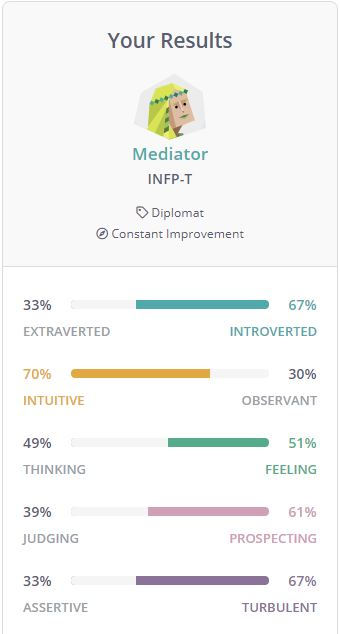
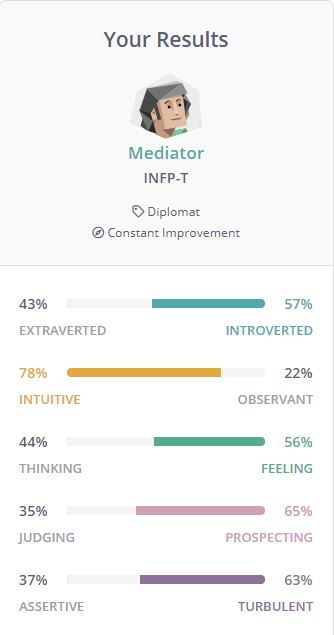
Added new files

diff --git a/index.html b/index.html
@@ -7,7 +7,7 @@
 </head>	
 	<header>
 	<h1>Brandon Ferguson
-		<br>Portfolio
+		<br>ePortfolio
 	  </h1>
 
 		
@@ -16,31 +16,34 @@
 <img1><img src="images/profile.jpg" width="131" height="130" alt=""/></img1>
 <h2>Personal Information</h2>
 <p1><li>Student Number: s3876709</li>
-	<li>Student E-mail: s3876709@student.rmit.edu.au
+	<li>Student E-mail: s3876709@student.rmit.edu.au</li>
 	<li>Mobile: +614 07 998 573</li>
-	<li>Website: <a href="https://flavaferg.github.io/" target="new">https://flavaferg.github.io/</a></li>
+	<li>Website: flavaferg.github.io</li>
 	<br><br>
-	I was born in Geelong and have been living here to this date. I am however an Australian with a quarter Irish and a quarter Scottish. I completed year 12 VCE in 2016 and have since done a Certificate III in Retail Services. I used to work at McDonalds from 2014-2019 as the role of a Crew Member where I did all round tasks from out front serving customers, out back in the kitchen and Maintenance duties. The only language I know how to speak fluently is English. I like to play the guitar and have been playing since Grade 4, in that amount of time you would think id be a pro at it but I am far from it. I also like to read books on my kindle, my favorite author is Dr. Hunter S. Thompson. I also like to play video games such as Rust, Garry’s mod & Old School Runescape on PC and Grand Theft Auto & Apex Legends on Xbox
+	I am an Australian citizen and have grown up in various parts of Geelong my entire life, I am a quarter Irish and a quarter Scottish although the other half of my nationality is unknown to me. My highest form of education is Year 12 VCE which I completed at North Geelong Secondary College.  I have worked at McDonalds for almost 5 years within 2014-2019 and have tried out various trades in between such as Roof plumbing and Roof Tiling. I also did a Furniture Removalist gig for a few weeks. The only language I can speak fluently is English, but I know a few cuss words in other languages. I like to read books, play video games and hang out with friends in my spare time, my favorite books are Fear & Loathing in Las Vegas and Fight Club and my favorite author is Hunter S. Thompson, my favorite video game is Rust which I currently have just over 2000 hours on. But I also like to play Grand Theft Auto V and Apex Legends when I am not playing Rust.
 	</p1>
 <h2>Interest in IT</h2>
-<p1>I have always had an interest in IT ever since I was a child, I started with playing Space Cadet 3D Pinball on Windows XP to playing Crash Bandicoot: The Wrath of Cortex on my brand new PS2 that I got for Christmas and my interest for IT and gaming in particular sprouted and grew from there as I moved to multiplayer games and creating my own private servers for games such as Travian, Habbo Hotel, and Rust which I would usually use someone else’s public script and upload it to a server or had a large amount of help from people I knew from the gaming community, and I would also do the same thing when creating forums for these private servers I would use the MyBB script and upload it to a website with FileZilla. It has always interested me how all these different types of Hardware put together can create something so powerful that is used so diversely. The programming side to things has kept me up at night sometimes thinking how on earth could the programs I am using be created with just 1’s and 0’s that form instructions. My uncle has IT as a major part of his life and is very knowledgeable in the IT industry which gaining knowledge from him and knowing about what he does has helped me gathering an understanding of IT and knowing if I ever need to know something he is probably the first person to go to if I cant find my answer online.
+<p1>My interest in IT has sparked with my interest and entertainment I received from video games starting with Space Cadet Pinball on my parents PC slowly moving into Crash Bandicoot and then more advanced games as time passed, until today I have never stopped playing. Throughout my childhood I’ve worked with friends I met online and used open source scripts to create my own private servers for some of my favorite games such as Habbo Hotel, Garry’s Mod, Rust and Travian with accompanying forum websites by uploading the MyBB forum script using FileZilla where users for the servers could post various things based on the server whether it be complaints, ideas, ban appeals & requests or just general chat. I also made a Radio based Fan website for Habbo Hotel, where people with authorization could stream music over the radio which were referred to as DJ’s. After growing up a bit I realized I could use the fuel given to me from my interest in IT to do something a bit more and a bit larger than just using others scripts to make private gaming servers, it astounded me how these physical technological things known as computers can have such an effect on the world and are powerful enough to do almost anything. I have an uncle who has been interested in IT his whole life and is currently Head of Cyber Security at a University in Melbourne which having him in my life has helped fuel my interest in IT because whenever I got stuck somewhere, he would be able to help me figure out the issue that was stopping me from continuing and he would always have new things I’ve never seen before that was usually IT based.
 <br><br>
-I chose to come to RMIT because I know that it is a very reputable university that I know will give me a broad understanding of IT and help me along the way to gaining my Bachelors Degree in IT. Also the ability to study from home is very good for me cause I am an introvert or and Introverted Extrovert at the least. As I like to stay at home and if I do go out I stick to my close inner circle and family. So as I have all the time on my hands I can focus on Studying without having to leave my comfort zone.
+Although I have my mind set on game development but I am still keeping an open mind on other jobs in the IT Industry I would possibly like to do so I started this Course through RMIT to help me learn a wide range of IT skills and get my Bachelor’s Degree in Information Technology to help me figure out what exactly it is that I want to do within the IT Industry. I also like the fact that it is 100% online as I am quite the Introvert or am an Introverted Extrovert at the least and I do get a bit anxious around large groups of people so the ability of being able to do the course in comfort at home was a huge part of the decision making of partaking in this course through RMIT.
 <br><br>
-Hopefully during this course I will be able to gain and maintain a broader understanding of all parts of IT including the industry, what IT is all about, how to program, knowing what all the components in a computer and other electronic devices, such as modems, routers and robots do to get them to function . I feel as the way the world is going were heading and are probably already in the Digital Age where everyone is connected in one way or another to IT. So getting in now would be a big benefit to me in the future and help me get a job in the industry once I complete or while I am doing my Degree.
+During my studies at RMIT I aim to learn and gather a more deep and broader understanding of what IT is and what IT consists of, What parts go into a computer and what they do and how the software connects to the Hardware especially within AI based technologies and how it all works. Also I expect to learn a lot about programming as atm my main goal is become a game developer but would also like to make my own little projects along the way whenever I have a nice application idea pop up in my head. Also knowing the ins and outs of the environment within the IT industry and how IT is affecting the world whether for better or worse, I would expect to understand all of that once I complete this Bachelor’s Degree of IT.
 
 	</p1>
 	
 <h2>Ideal Job</h2>
-<p1><a href="https://www.seek.com.au/job/50541005" target="new">https://www.seek.com.au/job/50541005</a></p1>
-<p1><br>
-</p1>
-	<p1><a href="JobAd.pdf" target="new">Job Ad PDF</a> <br>
-	  This job position includes developing games for clients of the company using multiple game engines such as Amazon Lumberyard, Unreal Engine and Unity where I will be able to make the clients game ideas come to life. This appeals to me because I will be able to help those who have an idea about a game and have the Design become a fully functioning game, and with the possibility of being able to say “Hey I made or helped make that game” especially if it becomes a very successful game. And also the option to work in at a studio in California and even San Francisco would be nice as I’ve always wanted to visit America, especially California. <br>
-  <br>
-	  In this position some of the skills and requirements I would need to have is a minimum of 3 Years of experience using Game engine’s particularly Unreal Engine, Lumberyard and Unity, and experience creating Unreal Engine 4 content plugins, creating Unity native plugins and experience using source control such as git. I must also show that I have the experience with evidence of past projects and even jobs where I used these Game Engines frequently. I must have experience programming such languages as C++, C# and JavaScript, while having strong fundamentals of programming and complex problem solving skills and many other forms of skills in programming, such as Multi-threaded and Shader programming with strong knowledge of the design and patterns which are object-oriented, being able to work in AAA environments having published at least one Published AAA game, with good teamwork skills and being able to work in a swift-footed environment and to top it off I need have a great deal of passion for game development. Right now I do not have any of the skills, qualifications or experience needed to be eligible for this job, other than a passion for game development. <br>
-  <br>
-	  Once I complete or while I am doing my Bachelors Degree in Information Technology I aim to get a job in the game development industry that can help me gain these skills alongside doing the degree and even going into further studies that will help me build the skills that I need for this job. </p1>
+	<p1><a href="https://www.seek.com.au/job/51020819" target="new">https://www.seek.com.au/job/51020819</a>
+		<br>
+		This job position is full of experienced and passionate game programmers looking for a new member of their team to work on an astounding new Virtual Reality game. The people already working here come from a large range of backgrounds although that doesn’t stop them from working as a team and are extremely motivated to create the game. Also being able to work from home and working whenever I want to work. This job is appealing to me mainly because the game they are looking for programmers for is a Virtual Reality game which I think would be a good thing to be apart of as at the moment it is a big step in the evolution of video games. I also feel it would be a good way for me to gain experience and become noticed as a profession game developer. Also being able to work when I want and from home would be helpful for me as I can be flexible with when I work meaning I will have time to do my daily activities and work before I when I get home from doing my activities.
+<br><br>
+I have to have a strong experience with the coding language C# and experience using the Unity3D development platform. Common knowledge and experience with the features of gameplay like physics, UI’s, shaders, animation etc. knowing how a computer can perform and handle the game and understanding the limits of what a common gaming PC can handle so the game is not exclusive to Extremely High End PC’s. Experience is needed in most programming languages and software to allow to full functionality of the game with use of servers and API’s etc. Also experience with Version Control systems most commonly Git but also Mercurial or Perforce. Experience with many software development tools and practices that will help with the development of the game. I also need to be fluent with the English language and the ability to work well and thrive in an industry with a diverse range of team members. It would be plus if I had experience with Virtual Reality Development and online multiplayer and networking in the past, and Last but not least I Need to have a great passion and be enthusiastic for game development.
+<br><br>
+At the moment I really do not have many of these prerequisites to apply for this job other than a slight experience with version control, although it is strictly git at the moment and my passion for video games and development of video games. Although I have experience with Game maker which has also given me a little bit of sense within the gameplay features. But I am far from being able to apply for this job at this point in time.
+		<br><br>
+My plan to be able to apply to this job or a job quite similar to this one would be completing my education within the bachelors of Information Technology and learn as much as I can about IT in a broader sense while also focusing specifically on Game Design, development, coding and use of servers and online networking. Throughout doing my Bachelors of IT Courses I will aim to get a few jobs in the industry once I feel comfortable that I have enough knowledge to be able to do the Jobs which in itself will help me slowly gain experience to get me into a job position like this one.		
+		
+
+	</p1>
 <h2>Personal Profile</h2>
 <h3>Myers Brigs Test</h3>
  <img src="images/16personalities_results_compact.JPG" width="340" height="634" alt=""/>
@@ -51,25 +54,28 @@ Hopefully during this course I will be able to gain and maintain a broader under
 <h3>Big 5 Test</h3>
 <img src="images/Big_Five_results.JPG" width="530" height="126" alt=""/><br>
 <br>
-<p1>The results of these tests show that I can be quiet and somewhat shy but I am also dedicated and hard working and can be quite creative especially when it comes to doing the work as it can be hard for me to focus and learn by listening and reading rather than doing and putting in the physical work. It also shows that I work better and connect better with smaller groups rather than large groups. I think this will influence my behavior with the team in the sense that I will knuckle down, go with the flow and that I am better at following orders rather than dishing them out which will make me good at letting the work im being asked to do be the work that I do rather than arguing about it unless I can think of a better way to do it and not dictate it but put it in as a suggestion and see whether my team is okay with me doing something different. In taking this into account with forming a team I will mainly need a leader who is good at delegating work between the group which I will make sure I get it done and  knowing I will be compatible with almost any other team member than I might come across and will be very flexible with who I work with.</p1>
+<p1>The Results of the 3 personality tests showed me that I am quite shy and quiet when around people im not used to but when I am with people I am close to I open up and shine when around them. Like I said in an earlier topic, these personality tests show that I am an introverted extrovert. IT also shows that I like the be authentic and true to myself while maintaining my moral standards. I think how this will affect me within a group or a Team, would be that I will sit back in the darkness and let others make the main decisions but in saying that I will participate and engage in conversations when spoken to but will go with the flow depending in what decisions the rest of the group has made while staying dedicated and then knuckle down and do the work that I was assigned to do as I am quite relaxed and would most likely be happy with whatever has been decided. When forming a team, I would most likely look for a group with a range of different skills and ideally find someone with great leadership skills that knows how to delegate others while coming up with a fair and tactical conclusion on what everyone in the team needs to be doing to pull their weight. Although that would be ideal, I am also capable of being happy with whatever team I come across with as I am very flexible and not bothered by the rest of the team, as long as I feel as if I am doing my part to contribute to the team and the others in my team do their part I will not mind.</p1>
 	<h2>Project Idea</h2>
 	<p1>
-This project is called Frame Factory, which in a sense is a frame finder where you can look through our website and find every single frame from any TV show or movie that you like. Some people might not have the files of a video where they would usually use a Video to JPEG converter, so we do that process for you and convert all the TV shows and movies into JPEG format frame by frame and store it on our website for you. You can search the frame you want by episode and even find the most common frames with our sorting functionalities.<br>
+Name: You Wouldn’t Do It (YWDI) / onlyStunts (depending whether legal issues will arise with onlyFans)
+		<br><br>
+This project idea will be a platform where users can get paid to perform stunts and/or bizarre and wild things that people wouldn’t usually do just for the hell of it, or users can ‘chip in’ to give more incentive for other users to perform stunts and other unordinary activities. There will be various methods to the way users get paid to perform these stunts, from a kind of onlyFans styled subscription, to a Kickstarter styled process (user posts ill do this if I reach this much) and then a reverse kickstarter styled process (users post a stunt and someone claims the stunt when the money pool is worthy enough for them).
+<br>
 <br>
 
-This project will be useful in a wide variety of ways, the main use for it will be that it is a great resource for meme creators who would like to make a meme based on a TV show or Movie, There are a lot of TV and movie based memes, so say people wanting to create a meme focused on the Simpsons, they will be able to come to our site, select what episode they would want to see all the Frames of and select their desired Frame to work with on their meme. This will also be a good place for fans to download frames of their favorite shows and movies and use the Frame they want as a background for their desktop or wallpaper for their phone.<br>
+This project would be useful and interesting to wide variety of people, a lot of people find some form of thrill, humor or entertainment out of watching people doing stupid stuff, whether they get hurt or whether they smash the stunt out like a beast. The stunting industry is not as mainstream as it used to be when a new stunt movie or tv show such as jackass or The Dudesons were coming out every couple years or every week if were talking about the Television side of things. There isn’t really any platform out there where stuntmen can gain serious revenue with platforms such as YouTube becoming ‘family friendly’ and less and less of these activities being allowed on other platforms such as YouTube, and this platform would be a new beginning for the stunt industry.<br>
 <br>
 
-With the Frame Factory product you will have access to all frames from various TV shows and movies, the directories will be be separated in categories of All TV Shows which will have a list of all available TV shows where users can direct themselves by selecting the TV show they want and then they select the season and episode of the frame they are looking for in this directory, alternatively they can search with the format eg. “The Simpsons S08E23” or “The Simpsons Homers Enemy” or just “Homers Enemy” by using the search bar on top of the page. All Movies is another category which the user can search their desired movie in the same sense of searching with the TV shows but instead of the TV show they enter to movie title or look at the list of Movies in the All Movies Categories.  By default both these categories are sorted in alphabetical order (A-Z) but the user can change the way they sort through the directories from A-Z, Z-A, Most Viewed, Most Liked, Most Commented, Most Shared, Most Favorited and Most Recent or Oldest. There will also be a top 10 Episodes which will have the top 10 Episodes not by frame, which will be calculated by most Commented, Liked, Shared, Favorited and viewed frames within each episode. A Top 10 Movies which will be calculated my most Commented, liked, shared, Favorited and viewed frames combined within each movie. A Top 100 Frames Category which will have the top 100 Frames in order from 1-100 based on how many Comments, Likes, Views, Favourites and Shares that each frame from any TV Show or Movie. A Top 100 TV Show Frames category which will have the top 100 frames from any TV Show that is in our directories, calculated by combining the most Views, Likes, Shares, Favourites and Comments on each particular frame. Another category will be the Most recent category which will Show each episode and movie in order based on their release date. Once you have gone through the frames and found the one you want, you have the options to like, comment and share it, But most importantly you will be given the option to download the JPEG straight to your computer for further editing or use. We also have a functionality where you can save your favorite frames to a section called ‘Favorites’ by signing up with an account on the website and clicking on an ‘Add to Favorites’ button that will be alongside the like, comment, and share options on any of the frames that you have selected. This will allow users to keep track of their favorite frames and can easily go back to the frame that they added to favorites by going to the My Favorites section of the website. While ‘My Favorites’ is a good way to go back to frames you liked most, we also have a ‘History’ Section which will allow users to see any frame they have clicked on in the past. And also a request section where users can request any movies or TV shows we haven’t supplied on the site.
+With this platform that I intend to create anyone who wants to make a bit of cash from doing stupid stuff from licking a dog turd to jackass style stunts, or even ‘Bumfights’ styled stunts (although I believe a lot of legal issues would arise with Bumfights styled stunts, as we have seen in the past with the Bumfights law suits), will be able to perform these stunts for cash. There are three modes I feel like we will use to kickstart the platform but may also expand to different modes while we see the success and failure of the modes as time goes on. But the first mode Would be a user can post a stunt such as doing a five-star frogs plash from a tree, and they put a price on the stunt and all the other user’s chip in money until it reaches the amount the user who created it wants for doing the stunt or silly activity. From this point the money would be put in escrow until the user posts the stunt and has been verified by a server administrator or moderator. Once the stunt has been marked as completed the money raised to complete the stunt will be put into the “stuntman’s” bank account. The second mode would be, a user who is not competing in the stunt can put a stunt idea up such as “The Fence Headbutt” then everyone else using the platform for entertainment purposes can put in whatever amount they would like until someone who wants to make the money can claim the stunt at any point when they feel the stunt has reached a cash value of what they would consider doing the stunt for. In this case once the Stuntman has claimed the task, the money pool will be locked while all the money is in escrow until the task has been verified by the page moderators or administrators. With these first 2 modes the only people who get to see the stunt are the people who chipped in, we might even add a minimum ‘chip in’ to view amount such as $5 minimum to view the stunt/task but we will see how it goes without the minimum cash requirement first. The third and final mode of performing stunts will be more specific towards profession stuntmen and available who want to do stunts regularly. This method is a subscription-based method where people like stars from the notorious jackass crew can have a private page and perform any stunt they want and upload it to their private page that is only accessible to those who have paid the subscription fee. With the third method they will also have the ability to post a paid post where you have to pay specifically for that individual video with the option to still have that available to subscribers only (and if the subscriber will have to pay for that video) or whether the public can view and pay for the video of the stunt as well. It will all be trial and error as it progresses, first Ill see what will work, what does not, what’s legal and what’s not and add features and remove features when necessary.
 <br>
 <br>
-For this project we will need to get some webhosting with enough storage space to hold all the images from each frame being hosted on our website. Another tool we will need is a Video to JPEG converter to convert all movies and TV shows to a JPEG format frame by frame and web design tool such as Dreamweaver, or even notepad++ to code the site to be how we want it, a File Transfer Protocol such as Filezilla to upload all of our code images and data to the server we are hosting the website on. Also a database Software for storing user data such as phpMyAdmin unless we want  to create our own
+The Tools and technology needed with this project would possibly be a server to run the website and keep it up but in the meantime we could use a Web hosting service and possibly even a Virtual Private Server if web hosting would not suffice. We will need to purchase a domain name for the site. We will need to create databases probably using phpMyAdmin and a FTP service such as FileZilla to transfer all of the files containing the data of the platform. Also a program like Dreamweaver would help to create the Frontend parts of the website that the platform will be viewed on by users.
 <br>
 <br>
-Skills required will be some html experience to create the website design and code this can be simplified by using a web design tool such as Adobe Dreamweaver, some php skills to create the MySQL database unless we used phpMyAdmin which then you would still need some basic database knowledge to create the database from their and knowing a way to integrate the database into our website. Also some knowledge of using a File Transfer Protocol service such as FileZilla so we know how to get our files across to our website. While also knowing how to use the Video to JPEG converter to get the frames we want to upload
+Some skills that would be required is some basic knowledge of html and CSS or even experience with a tool such as Dreamweaver to create the front end part of the site, knowledge with databased and connecting the databases to the website so that everything that is submitted into the website will have somewhere to be stored. Moderating and Administrating Skills will be necessary to keep the platform running in a professional manner. And enough knowledge of hosting websites through a server if we chose to use a VPS or physical server, if we do not use a physical server some FTP knowledge will be needed to get the website live. This shouldn’t be too hard to perform and these skills are commonly used throughout the IT industry so it would be easy to hire people with the required skills
 <br>
 <br>
-If this website/program is successful we will solve the issue for meme creators who cant find the frames they intended to use for their memes and saves them having to go through the full video of the TV show or movie they wanted to use and screenshot it. It will also become a go to place for anyone wanting to make a meme or desktop background inspired by any of your favorite TV shows and movies, a place for users to store their favourite frames for quick access in future use and could possibly have many other uses that we aren’t focusing on. 
+If this project is successful it will be a big step in the entertainment and stunting industry as it will give stuntmen a place to perform their stunts knowing that they are not doing it for nothing, and it will give the viewers a good source of entertainment knowing that they will only be spending their money on stunts/activities that they what they want to see as they have the decision to choose what they chip into. Although there could be a lot of legal issues that come with it, if it is done right it will bring jackass themed entertainment back into the mainstream entertainment.
 
 	</p1>
 </body>

diff --git a/style.css b/style.css
@@ -1,6 +1,6 @@
 @charset "utf-8";
 body p1 {
-    color: #920002;
+    color: #a8dadc;
     border-bottom-width: medium;
     border-bottom-style: none;
 }
@@ -8,28 +8,31 @@ header {
 }
 
 body h2 {
-    color: #AF0000;
-    border-top: medium solid #420001;
+    color: #e63946;
+    border-top: medium solid #457b9d;
 }
 
 body {
-    padding-left: 200px;
+    padding-left: 50px;
     margin-left: 180px;
     padding-top: 0px;
-    background-color: #00AA13;
-    padding-right: 200px;
+    background-color: #1d3557;
+    padding-right: 50px;
     margin-right: 180px;
-    border: medium solid #420001;
+    border: medium solid #457b9d;
     border-top-left-radius: 0px;
 }
+footer {
+    color: #f1faee;
+}
 header h1 {
-    color: #AF0000;
-    border-bottom: medium solid #420001;
+    color: #e63946;
+    border-bottom: medium solid #457b9d;
 }
 body img1 img {
     float: right;
     margin-top: 5px;
 }
 body h3 {
-    color: #7E0000;
+    color: #e63946;
 }
